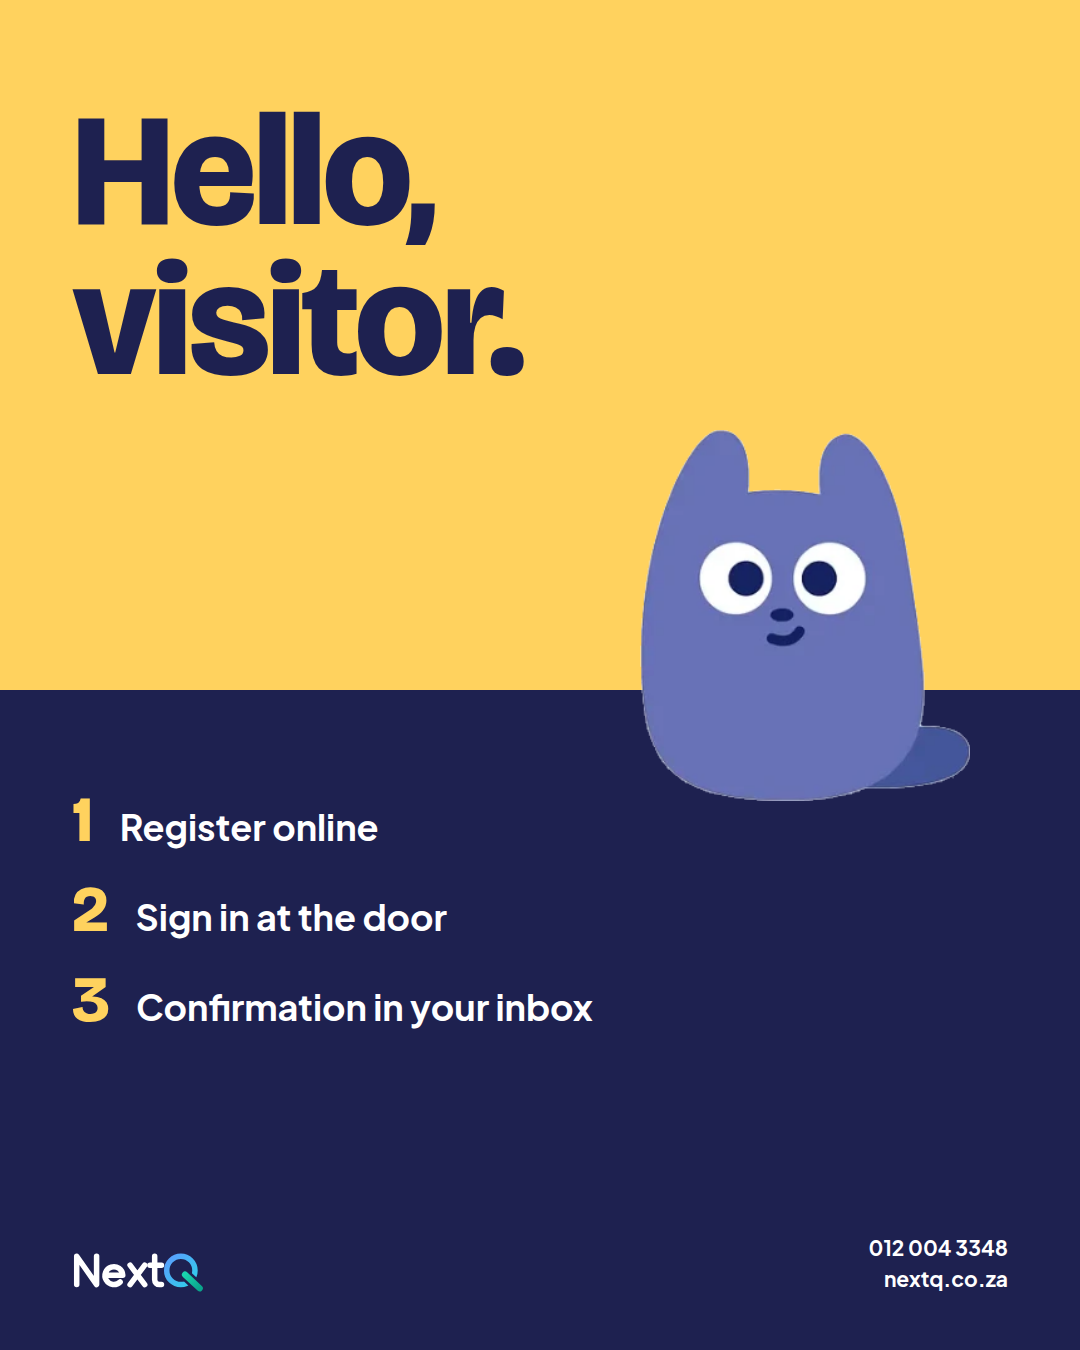
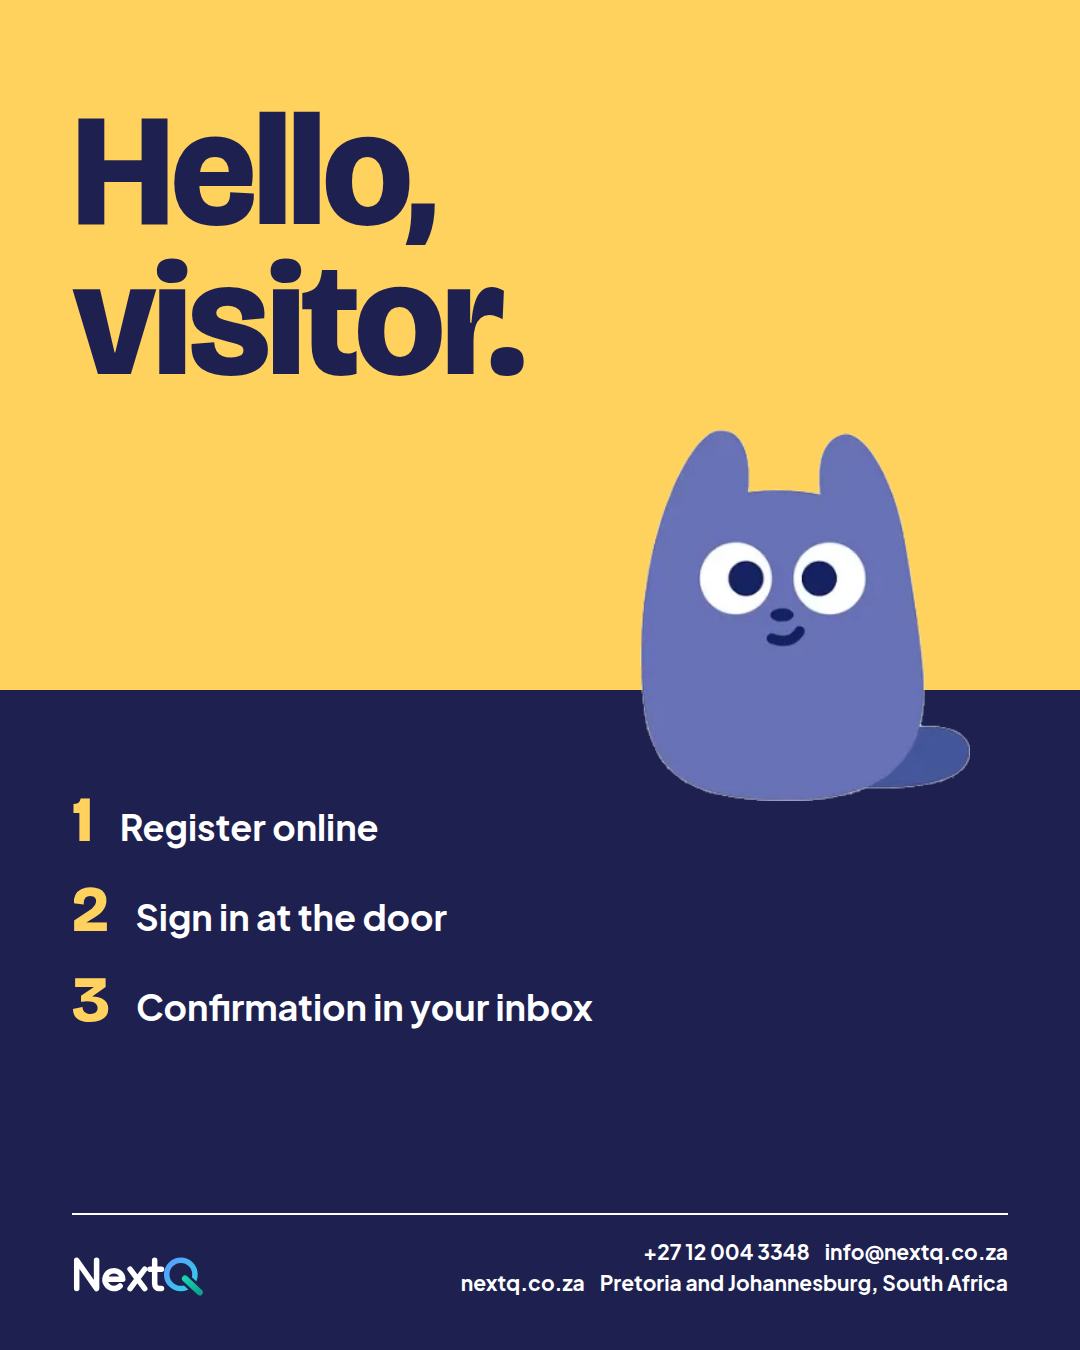
Posters: full contact details; park the website remake brief and references
Claude-Session: https://claude.ai/code/session_01H8nUNRrGeaWWu1NrRdz9Wv

Changed region(s): [[0.4278, 0.9022, 0.9472, 0.9644], [0.0611, 0.9333, 0.1833, 0.9644]]

diff --git a/marketing/designs.html b/marketing/designs.html
@@ -14,7 +14,7 @@
   .sub { font-size: 30px; line-height: 1.4; font-weight: 600; margin: 0; }
   .m { position: absolute; display: block; }
   .flip { transform: scaleX(-1); }
-  .foot { position: absolute; left: 72px; right: 72px; bottom: 56px; display: flex; justify-content: space-between; align-items: flex-end; font-size: 21px; font-weight: 700; }
+  .foot { position: absolute; left: 72px; right: 72px; bottom: 52px; display: flex; justify-content: space-between; align-items: flex-end; font-size: 21px; font-weight: 700; border-top: 2px solid currentColor; padding-top: 22px; }
   .foot img { height: 44px; display: block; }
   .foot span { text-align: right; line-height: 1.45; }
   .foot.light { color: #fff; }
@@ -43,7 +43,7 @@
       <div class="f"><label>Company</label><div>Lebo Logistics</div></div>
     </div>
   </div>
-  <div class="foot" style="left:72px; right:auto; flex-direction:column; align-items:flex-start; gap:14px; bottom:60px"><img src="logo-dark.svg" alt="NextQ"><span style="text-align:left">Online registers for conferences<br>012 004 3348<br>info@nextq.co.za<br>nextq.co.za</span></div>
+  <div class="foot" style="left:72px; right:auto; flex-direction:column; align-items:flex-start; gap:14px; bottom:56px; border:0"><img src="logo-dark.svg" alt="NextQ"><span style="text-align:left">Online registers for conferences<br>+27 12 004 3348<br>info@nextq.co.za<br>nextq.co.za<br>Pretoria and Johannesburg<br>South Africa</span></div>
 </div>
 
 <!-- 2. Nobody likes a queue -->
@@ -55,7 +55,8 @@
   <img class="m" src="m-side.png" style="left:420px; top:900px; width:190px">
   <img class="m flip" src="m-jump.png" style="left:700px; top:770px; width:300px">
   <div style="position:absolute; left:0; right:0; top:1110px; height:4px; background:var(--ink)"></div>
-  <div class="foot"><img src="logo-dark.svg" alt="NextQ"><span>Next in the queue? Not any more.<br>012 004 3348 &nbsp; nextq.co.za</span></div>
+  <p style="position:absolute; left:72px; top:1130px; margin:0; font-size:26px; font-weight:800">Next in the queue? Not any more.</p>
+  <div class="foot"><img src="logo-dark.svg" alt="NextQ"><span>+27 12 004 3348 &nbsp;&nbsp; info@nextq.co.za<br>nextq.co.za &nbsp;&nbsp; Pretoria and Johannesburg, South Africa</span></div>
 </div>
 
 <!-- 3. Hello, my name is -->
@@ -67,7 +68,7 @@
     <div style="background:var(--ink); color:#fff; font-size:13px; font-weight:600; padding-bottom:8px">my name is</div>
     <div style="font-family:'Fraunces',serif; font-style:italic; font-size:44px; padding:6px 0 10px">Q</div>
   </div>
-  <div class="foot light"><img src="logo-light.svg" alt="NextQ"><span>Registration, sign in and confirmation<br>012 004 3348 &nbsp; nextq.co.za</span></div>
+  <div class="foot light"><img src="logo-light.svg" alt="NextQ"><span>+27 12 004 3348 &nbsp;&nbsp; info@nextq.co.za<br>nextq.co.za &nbsp;&nbsp; Pretoria and Johannesburg, South Africa</span></div>
 </div>
 
 <!-- 4. Back view, watching the live list -->
@@ -81,7 +82,7 @@
     </div>
   </div>
   <img class="m" src="m-back.png" style="left:70px; top:790px; width:330px">
-  <div class="foot" style="bottom:50px"><img src="logo-dark.svg" alt="NextQ"><span>012 004 3348 &nbsp; nextq.co.za</span></div>
+  <div class="foot"><img src="logo-dark.svg" alt="NextQ"><span>+27 12 004 3348 &nbsp;&nbsp; info@nextq.co.za<br>nextq.co.za &nbsp;&nbsp; Pretoria and Johannesburg, South Africa</span></div>
 </div>
 
 <!-- 5. Price first -->
@@ -91,15 +92,15 @@
   <h1 class="h" style="position:absolute; left:56px; top:440px; font-size:330px; color:var(--purple)">R 350</h1>
   <p class="s" style="position:absolute; left:72px; top:800px; font-size:76px">Once off.</p>
   <p class="sub" style="position:absolute; left:72px; top:920px; width:880px; color:var(--grey)">Or subscribe monthly for every register you need, or ask us for a registry built just for you.</p>
-  <div class="foot"><img src="logo-dark.svg" alt="NextQ"><span>012 004 3348<br>info@nextq.co.za &nbsp; nextq.co.za</span></div>
+  <div class="foot"><img src="logo-dark.svg" alt="NextQ"><span>+27 12 004 3348 &nbsp;&nbsp; info@nextq.co.za<br>nextq.co.za &nbsp;&nbsp; Pretoria and Johannesburg, South Africa</span></div>
 </div>
 
 <!-- 6. Typographic, the mascot looks up at the words -->
 <div class="p" id="d6" style="background:var(--ink); color:#fff">
   <h1 class="s" style="position:absolute; left:72px; right:90px; top:110px; font-size:104px">Paper registers get lost, wet and <em style="color:var(--yellow)">coffee stained.</em></h1>
   <p class="sub" style="position:absolute; left:72px; top:700px; width:520px; color:#c8cbea">Ours sign people in on a tablet, keep the times and signatures, and email the confirmation.</p>
-  <img class="m" src="m-side.png" style="left:640px; top:820px; width:340px; transform:rotate(-8deg)">
-  <div class="foot light"><img src="logo-light.svg" alt="NextQ"><span>012 004 3348<br>nextq.co.za</span></div>
+  <img class="m" src="m-side.png" style="left:640px; top:770px; width:340px; transform:rotate(-8deg)">
+  <div class="foot light"><img src="logo-light.svg" alt="NextQ"><span>+27 12 004 3348 &nbsp;&nbsp; info@nextq.co.za<br>nextq.co.za &nbsp;&nbsp; Pretoria and Johannesburg, South Africa</span></div>
 </div>
 
 <!-- 7. The confirmation email -->
@@ -111,7 +112,7 @@
     <div style="font-size:38px; font-weight:800; margin:18px 0 12px">You're registered, Thandi.</div>
     <div style="font-size:24px; line-height:1.5; font-weight:500">Business Growth Conference<br>Hall A, 7 October, 08h00<br>Seat 42</div>
   </div>
-  <div class="foot"><img src="logo-dark.svg" alt="NextQ"><span>012 004 3348<br>nextq.co.za</span></div>
+  <div class="foot"><img src="logo-dark.svg" alt="NextQ"><span>+27 12 004 3348 &nbsp;&nbsp; info@nextq.co.za<br>nextq.co.za &nbsp;&nbsp; Pretoria and Johannesburg, South Africa</span></div>
 </div>
 
 <!-- 8. Split colour, three steps -->
@@ -124,7 +125,7 @@
     <li style="display:flex; gap:28px; align-items:baseline"><b class="h" style="font-size:64px; color:var(--yellow)">2</b><span style="font-size:36px; font-weight:700">Sign in at the door</span></li>
     <li style="display:flex; gap:28px; align-items:baseline"><b class="h" style="font-size:64px; color:var(--yellow)">3</b><span style="font-size:36px; font-weight:700">Confirmation in your inbox</span></li>
   </ol>
-  <div class="foot light"><img src="logo-light.svg" alt="NextQ"><span>012 004 3348<br>nextq.co.za</span></div>
+  <div class="foot light"><img src="logo-light.svg" alt="NextQ"><span>+27 12 004 3348 &nbsp;&nbsp; info@nextq.co.za<br>nextq.co.za &nbsp;&nbsp; Pretoria and Johannesburg, South Africa</span></div>
 </div>
 
 <!-- 9. Crossed out list -->
@@ -138,19 +139,20 @@
   </div>
   <img class="m" src="m-jump.png" style="left:640px; top:690px; width:330px">
   <p class="sub" style="position:absolute; left:72px; top:900px; width:520px">Online registration for conferences and events. From R 350 once off.</p>
-  <div class="foot"><img src="logo-dark.svg" alt="NextQ"><span>012 004 3348<br>nextq.co.za</span></div>
+  <div class="foot"><img src="logo-dark.svg" alt="NextQ"><span>+27 12 004 3348 &nbsp;&nbsp; info@nextq.co.za<br>nextq.co.za &nbsp;&nbsp; Pretoria and Johannesburg, South Africa</span></div>
 </div>
 
 <!-- 10. Four panel strip -->
 <div class="p" id="d10" style="background:var(--cream)">
   <h1 class="h" style="position:absolute; left:72px; top:76px; font-size:92px">How a NextQ<br>visit goes</h1>
+  <p style="position:absolute; right:72px; top:96px; margin:0; background:var(--ink); color:#fff; font-size:22px; font-weight:800; padding:12px 22px; border-radius:999px">From R 350 once off</p>
   <div style="position:absolute; left:72px; right:72px; top:330px; display:grid; grid-template-columns:1fr 1fr; gap:22px">
     <div style="background:#fff; border-radius:28px; height:400px; position:relative"><b style="position:absolute; left:30px; top:26px; font-size:28px">1. Register online</b><img src="m-front.png" style="position:absolute; left:120px; bottom:30px; width:220px"></div>
     <div style="background:var(--yellow); border-radius:28px; height:400px; position:relative"><b style="position:absolute; left:30px; top:26px; font-size:28px">2. Arrive</b><img src="m-side.png" class="flip" style="position:absolute; left:120px; bottom:30px; width:220px"></div>
     <div style="background:var(--mint); border-radius:28px; height:400px; position:relative"><b style="position:absolute; left:30px; top:26px; font-size:28px">3. Sign in at the tablet</b><img src="m-back.png" style="position:absolute; left:70px; bottom:30px; width:210px"><div style="position:absolute; right:40px; bottom:70px; width:120px; height:160px; background:var(--ink); border-radius:16px; padding:10px"><div style="background:#fff; border-radius:8px; height:100%"></div></div></div>
     <div style="background:var(--coral); border-radius:28px; height:400px; position:relative"><b style="position:absolute; left:30px; top:26px; font-size:28px; color:#fff">4. Confirmed</b><img src="m-jump.png" style="position:absolute; left:110px; bottom:22px; width:240px"></div>
   </div>
-  <div class="foot"><img src="logo-dark.svg" alt="NextQ"><span>From R 350 once off<br>012 004 3348 &nbsp; nextq.co.za</span></div>
+  <div class="foot"><img src="logo-dark.svg" alt="NextQ"><span>+27 12 004 3348 &nbsp;&nbsp; info@nextq.co.za<br>nextq.co.za &nbsp;&nbsp; Pretoria and Johannesburg, South Africa</span></div>
 </div>
 
 </body>

diff --git a/marketing/website-brief.md b/marketing/website-brief.md
@@ -1,0 +1,67 @@
+# NextQ website remake: brief (parked)
+
+Saved on 7 October 2026 for later. Nothing is built yet.
+
+## The idea
+
+Remake the NextQ website in the spirit of the reference screenshots in `website-reference/` (a documentation product site). We take the structure and the calm, white, roomy feel. We do not copy its text, illustrations or branding. The NextQ mascot carries the personality in place of their stock people.
+
+## What we take from the reference
+
+1. A small grey kicker above each large, bold headline, for example "Online registers for every door" above "Sign in here. Sign in now."
+2. One clear blue call to action per section, for example "Create your first register".
+3. A tablet in the hero, straight on, with soft coloured lines running behind it like lines on a register page.
+4. A row of four short promise cards under the hero.
+5. Tabs that switch between uses, each with a text column and a screen.
+6. Three feature columns with a short title and two lines of text.
+7. A grey band near the end: "Start from R 350. Grow when you need to."
+8. Plenty of white space, no clutter.
+
+## The NextQ version, section by section
+
+1. **Header:** NextQ logo, Product, Uses, Pricing, Contact, then Log in and a "Get started" button.
+2. **Hero:**
+   - kicker: "Online registers, no paper"
+   - headline: "Sign in here. Sign in now."
+   - button: "Create your first register"
+   - a tablet showing the conference visitor form, with the mascot peeking over its top edge
+3. **Four promise cards:**
+   - "Your data in South Africa, POPIA aware"
+   - "Works offline"
+   - "Confirmations by email"
+   - "PDF and Excel registers"
+4. **About:** "So much more than a sign in sheet. Welcome to NextQ." with one short paragraph.
+5. **Uses tabs:** Conferences and events, Staff transport, Visitors and reception, Exam rooms and training. Each tab has a short text, a "Get started" link and a screen from the app.
+6. **Features:**
+   - Registers and forms
+   - Live view
+   - Security at the gate
+   - Incidents
+   - Invoicing
+   - Certificates
+   Three per row, each with a mascot pose in place of a stock icon.
+7. **How a visit goes:** the four panel mascot strip from poster design 10.
+8. **Pricing band:**
+   - R 350 once off for a single register
+   - a monthly subscription
+   - "Contact us" for a customised registry
+9. **Contact and footer:**
+   - +27 12 004 3348
+   - info@nextq.co.za
+   - nextq.co.za
+   - Pretoria and Johannesburg, South Africa
+   - "NextQ, a product of Bakwena Industries"
+
+## Rules carried over from the posters
+
+1. Solid colours only, no gradients:
+   - cream #fff4dc
+   - navy #1e2150
+   - mascot purple #6670b5
+   - green #12a88a
+   - yellow #ffd25e
+   - coral #ff7a59
+   - mint #cfeadb
+2. Fonts from `fonts/`: Bricolage Grotesque for headlines, Plus Jakarta Sans for text, Fraunces for the odd accent.
+3. The mascot appears alone, without flowers or leaves. Poses are in `m-front.png`, `m-back.png`, `m-side.png` and `m-jump.png`. A vector version would be better for large sizes.
+4. No dashes in the copy.
